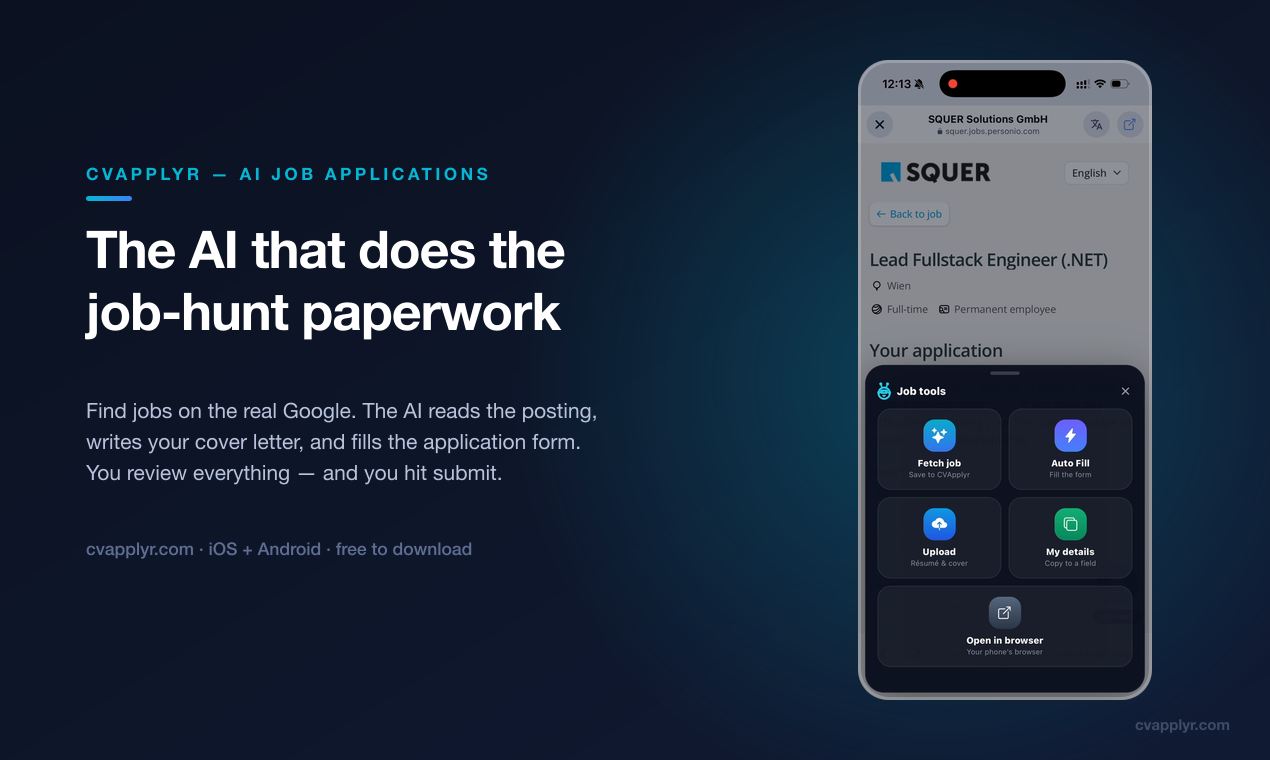
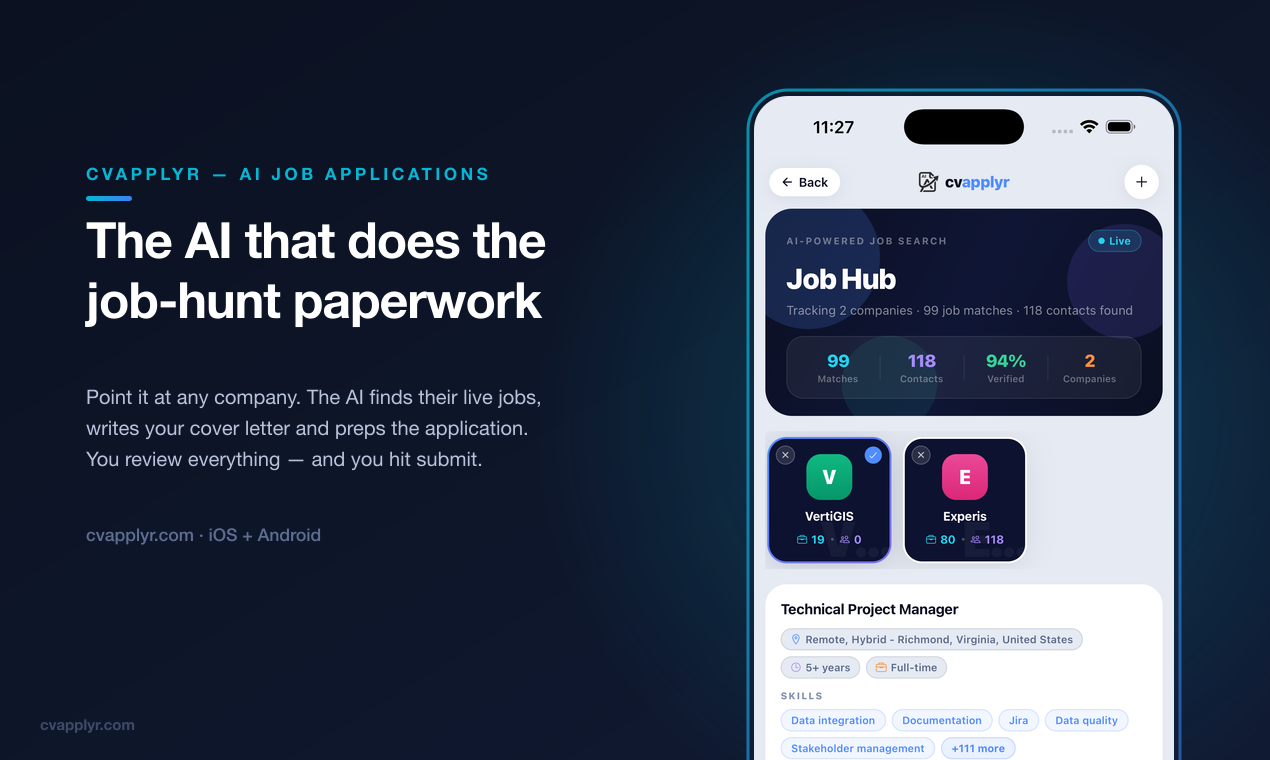
PH gallery rebuilt from the uploaded store screenshots
The video-frame gallery was rejected — compression and mid-animation frames
read badly. The 7 new images use the same June simulator captures behind
marketing/store-screenshots/apple/*, with the store set's pixelation of real
recruiter contacts replicated (sharp gotcha: chained .resize() calls override
each other, so the down/up pixelation needs two pipelines).

diff --git a/tools/build-ph-images.js b/tools/build-ph-images.js
@@ -1,93 +1,106 @@
-// Product Hunt gallery images — 1270x760, built from real app frames + the brand kit.
+// Product Hunt gallery images — 1270x760, built from the SAME simulator screenshots as the
+// uploaded App Store set (marketing/iOS, June 10 captures) + the brand kit.
 //
-// Layout: headline + subline on the left in the brand navy, a real phone frame on the right with
-// rounded corners and a soft glow. Every headline names what the AI actually DOES (reads the
-// posting / fills the form / writes the letter) — the ask was to make the AI concrete, and the
-// guardrails ban vague "revolutionize" filler anyway.
+// v2 used video frames; the user rejected them ("not up to the mark") — video compression and
+// mid-animation frames read badly at gallery size. These are the crisp native captures behind
+// marketing/store-screenshots/apple/*, so the PH gallery matches what's live on the stores.
 //
-// Frames come from the same recordings as the in-app guide, extracted frame-accurately
-// (⚠ -ss AFTER -i; keyframe seeking lands on the wrong screen).
+// ⚠ PRIVACY: two source shots contain REAL recruiter names/emails (Experis contacts). The store
+// set pixelated them; the same blur boxes are replicated here. Never ship these without the blur.
+//
+// Every headline names what the AI actually DOES (reads the posting / writes the letter / preps
+// the application) — captions must match the visible UI, and the guardrails ban vague filler.
 //
 // Usage: node tools/build-ph-images.js
 'use strict';
-const { execFileSync } = require('child_process');
 const fs = require('fs');
 const path = require('path');
 const sharp = require('sharp');
 
-const SRC_DIR = '/Volumes/External/Work/cvApplyr/Videos/July 2026/Edited';
+const RAW_DIR = path.join(__dirname, '..', 'marketing', 'iOS');
 const OUT_DIR = path.join(__dirname, '..', 'Claude', 'cvApplyr', 'ph_gallery');
-const TMP = path.join(require('os').tmpdir(), 'cvf-ph-images');
 
 const W = 1270, H = 760;
-const CROP = { x: 712, y: 0, w: 496, h: 1080 };
-const PHONE_H = 640;
-const PHONE_W = Math.round(PHONE_H * CROP.w / CROP.h);   // ≈294
+const SRC_W = 1320, SRC_H = 2868;
+const PHONE_W = 420;                                    // phone bleeds off the bottom edge
+const PHONE_X = W - PHONE_W - 96;
+const PHONE_Y = 96;
+const PHONE_R = 34;
 
-const V = {
-  profile: 'Profile Update.mov',
-  resume: 'Resume Builder.mov',
-  fetch: 'Fetch Job and Generate Cover Letter.mov',
-  apply: 'Apply Job with Auto Fill.mov',
+// sorted() order matches marketing/store-screenshots/make_store_shots.py IOS[] indices
+const RAW = fs.readdirSync(RAW_DIR).filter((f) => f.endsWith('.png')).sort()
+  .map((f) => path.join(RAW_DIR, f));
+
+// blur boxes in full-res source coords [x0, y0, x1, y1] — same as the uploaded store set
+const BLURS = {
+  5: [[85, 1195, 1000, 1455]],  // apply screen: hiring-contact block (taller than the store box — it clipped the name's top)
+  6: [[200, 850, 950, 935]],    // email compose: To: address
 };
 
-// kicker = small cyan eyebrow; head lines are drawn as given (manual wrapping = no surprises).
+// kicker = cyan eyebrow; head lines drawn as given (manual wrapping = no surprises)
 const IMAGES = [
   {
-    id: '01_hero', v: 'apply', t: 14.4,
+    id: '01_hero', src: 11,
     kicker: 'CVAPPLYR — AI JOB APPLICATIONS',
     head: ['The AI that does the', 'job-hunt paperwork'],
-    sub: ['Find jobs on the real Google. The AI reads the posting,', 'writes your cover letter, and fills the application form.', 'You review everything — and you hit submit.'],
-    foot: 'cvapplyr.com  ·  iOS + Android  ·  free to download',
+    sub: ['Point it at any company. The AI finds their live jobs,', 'writes your cover letter and preps the application.', 'You review everything — and you hit submit.'],
+    foot: 'cvapplyr.com  ·  iOS + Android',
   },
   {
-    id: '02_google', v: 'fetch', t: 4.6,
-    kicker: 'SEARCH',
-    head: ['The real Google,', 'inside the app'],
-    sub: ['No scraped listings, no stale board. Open any result —', 'the AI reads whatever job page you land on', 'and saves it with full details in one tap.'],
-    foot: 'Works on any job site — even ones we’ve never seen',
+    id: '02_livejobs', src: 3,
+    kicker: 'LIVE JOBS',
+    head: ['Real roles, from the', 'employer’s own site'],
+    sub: ['No stale board copies. The AI reads each company’s', 'careers page and pulls the live openings — title,', 'location, skills, and salary when listed.'],
+    foot: 'Straight from the source, not a scraped feed',
   },
   {
-    id: '03_autofill', v: 'apply', t: 15.7,
-    kicker: 'AUTO FILL',
-    head: ['AI fills the form.', 'You stay in charge.'],
-    sub: ['It completes the company’s own application and lists', 'what still needs you. Visa, salary and personal questions', 'are always yours — nothing is submitted without you.'],
-    foot: 'Works on Greenhouse, Workday, Personio and more',
+    id: '03_apply', src: 5,
+    kicker: 'APPLY',
+    head: ['Apply on the portal', '— or straight by email'],
+    sub: ['The AI writes the letter and preps your documents', 'for the company’s own application. Visa, salary and', 'personal questions stay yours — nothing sends without you.'],
+    foot: 'You review every application before it goes out',
   },
   {
-    id: '04_coverletter', v: 'fetch', t: 16.6,
+    id: '04_coverletter', src: 10,
     kicker: 'COVER LETTERS',
     head: ['Written from the', 'real posting'],
-    sub: ['The AI reads the actual job description and writes for it —', 'not a template. German, UK or US format, one tap.', 'Preview free, download as PDF or Word.'],
+    sub: ['The AI reads the actual job description and writes', 'for it — not a template. Pick the format the country', 'expects. Preview free, download as PDF or Word.'],
     foot: 'Country-correct formats, ready to attach',
   },
   {
-    id: '05_resume', v: 'resume', t: 8.5,
-    kicker: 'RÉSUMÉ BUILDER',
-    head: ['Paste your messy story.', 'Get a clean résumé.'],
-    sub: ['Old résumé text, a LinkedIn bio, rough notes — the AI', 'structures it into an ATS-friendly résumé in your', 'country’s format, with every section editable.'],
-    foot: 'German Lebenslauf-style, UK CV, US resume',
+    id: '05_email', src: 6,
+    kicker: 'EMAIL APPLY',
+    head: ['Email the recruiter,', 'documents attached'],
+    sub: ['The app finds recruiter and HR contacts — with verified', 'emails where available — and drafts the email with your', 'résumé and tailored letter already attached.'],
+    foot: 'You press send — always',
   },
   {
-    id: '06_applied', v: 'apply', t: 18.4,
-    kicker: 'TRACKING',
-    head: ['Submitted — and', 'tracked automatically'],
-    sub: ['The app detects the successful submit and marks the job', 'Applied on your dashboard. Saved jobs, match scores', 'and every letter you’ve written, in one place.'],
-    foot: 'free to download, credit packs for AI actions',
+    id: '06_resume', src: 9,
+    kicker: 'RÉSUMÉ BUILDER',
+    head: ['Paste your messy story.', 'Get a clean résumé.'],
+    sub: ['Old résumé text, a LinkedIn bio, rough notes — the AI', 'structures it into an ATS-friendly résumé, with every', 'section editable before you export.'],
+    foot: 'Your words in, a hiring-ready document out',
+  },
+  {
+    id: '07_formats', src: 8,
+    kicker: 'COUNTRY FORMATS',
+    head: ['One profile.', 'Every country’s format.'],
+    sub: ['Swipe to compare designs and switch region any time —', 'the same profile exports in the format local', 'recruiters expect. Previews are free.'],
+    foot: 'Free to download, credit packs for AI actions',
   },
 ];
 
-const sh = (cmd, args) => execFileSync(cmd, args, { stdio: ['ignore', 'pipe', 'pipe'] });
 const esc = (s) => String(s).replace(/&/g, '&amp;').replace(/</g, '&lt;').replace(/>/g, '&gt;');
 
 function backdropSvg(img) {
-  const headY = 268;
+  const headY = 258;
   const heads = img.head.map((l, i) =>
-    `<text x="86" y="${headY + i * 62}" font-family="Helvetica Neue, Helvetica, Arial, sans-serif" font-size="52" font-weight="800" letter-spacing="-1" fill="#FFFFFF">${esc(l)}</text>`).join('');
-  const subY = headY + img.head.length * 62 + 26;
+    `<text x="86" y="${headY + i * 60}" font-family="Helvetica Neue, Helvetica, Arial, sans-serif" font-size="50" font-weight="800" letter-spacing="-1" fill="#FFFFFF">${esc(l)}</text>`).join('');
+  const subY = headY + img.head.length * 60 + 26;
   const subs = img.sub.map((l, i) =>
-    `<text x="86" y="${subY + i * 31}" font-family="Helvetica Neue, Helvetica, Arial, sans-serif" font-size="21" fill="#B9C4DC">${esc(l)}</text>`).join('');
+    `<text x="86" y="${subY + i * 31}" font-family="Helvetica Neue, Helvetica, Arial, sans-serif" font-size="20" fill="#B9C4DC">${esc(l)}</text>`).join('');
   const footY = subY + img.sub.length * 31 + 44;
+  const rx = PHONE_X - 6, ry = PHONE_Y - 6;
   return Buffer.from(`<svg width="${W}" height="${H}" xmlns="http://www.w3.org/2000/svg">
   <defs>
     <linearGradient id="bg" x1="0" y1="0" x2="1" y2="1">
@@ -97,57 +110,79 @@ function backdropSvg(img) {
       <stop offset="0" stop-color="#06B6D4"/><stop offset="1" stop-color="#3B82F6"/>
     </linearGradient>
     <radialGradient id="glow" cx="0.5" cy="0.5" r="0.5">
-      <stop offset="0" stop-color="#06B6D4" stop-opacity="0.28"/><stop offset="1" stop-color="#06B6D4" stop-opacity="0"/>
+      <stop offset="0" stop-color="#06B6D4" stop-opacity="0.26"/><stop offset="1" stop-color="#06B6D4" stop-opacity="0"/>
     </radialGradient>
+    <linearGradient id="ring" x1="0" y1="0" x2="1" y2="1">
+      <stop offset="0" stop-color="#06B6D4" stop-opacity="0.75"/><stop offset="1" stop-color="#3B82F6" stop-opacity="0.55"/>
+    </linearGradient>
   </defs>
   <rect width="${W}" height="${H}" fill="url(#bg)"/>
-  <circle cx="${W - 330}" cy="${H / 2}" r="430" fill="url(#glow)"/>
+  <circle cx="${PHONE_X + PHONE_W / 2}" cy="${H / 2 + 40}" r="430" fill="url(#glow)"/>
   <rect x="86" y="196" width="46" height="5" rx="2.5" fill="url(#accent)"/>
   <text x="86" y="180" font-family="Helvetica Neue, Helvetica, Arial, sans-serif" font-size="17" font-weight="700" letter-spacing="3.5" fill="#06B6D4">${esc(img.kicker)}</text>
   ${heads}
   ${subs}
   <text x="86" y="${Math.min(footY, H - 56)}" font-family="Helvetica Neue, Helvetica, Arial, sans-serif" font-size="17.5" font-weight="600" fill="#5F6E92">${esc(img.foot)}</text>
-  <text x="${W - 40}" y="${H - 30}" text-anchor="end" font-family="Helvetica Neue, Helvetica, Arial, sans-serif" font-size="15" font-weight="700" fill="#3D4A68">cvapplyr.com</text>
+  <text x="40" y="${H - 30}" font-family="Helvetica Neue, Helvetica, Arial, sans-serif" font-size="15" font-weight="700" fill="#3D4A68">cvapplyr.com</text>
+  <rect x="${rx}" y="${ry}" width="${PHONE_W + 12}" height="${H - ry + 60}" rx="${PHONE_R + 6}" fill="none" stroke="url(#ring)" stroke-width="3"/>
 </svg>`);
 }
 
+// rounded-top mask: rect extends past the crop bottom so only the top corners round
 const phoneMask = (w, h, r) => Buffer.from(
-  `<svg width="${w}" height="${h}" xmlns="http://www.w3.org/2000/svg"><rect width="${w}" height="${h}" rx="${r}" ry="${r}" fill="#fff"/></svg>`);
-const phoneBorder = (w, h, r) => Buffer.from(
-  `<svg width="${w}" height="${h}" xmlns="http://www.w3.org/2000/svg"><rect x="1.5" y="1.5" width="${w - 3}" height="${h - 3}" rx="${r}" ry="${r}" fill="none" stroke="rgba(255,255,255,0.22)" stroke-width="3"/></svg>`);
+  `<svg width="${w}" height="${h}" xmlns="http://www.w3.org/2000/svg"><rect width="${w}" height="${h + r}" rx="${r}" ry="${r}" fill="#fff"/></svg>`);
+
+async function pixelate(srcPath, boxes) {
+  const buf = fs.readFileSync(srcPath);
+  const overlays = [];
+  for (const [x0, y0, x1, y1] of boxes) {
+    const w = x1 - x0, h = y1 - y0;
+    // ⚠ two resizes must be separate pipelines — chained .resize() calls override, not compose
+    const small = await sharp(buf)
+      .extract({ left: x0, top: y0, width: w, height: h })
+      .resize(Math.max(1, Math.round(w / 24)), Math.max(1, Math.round(h / 24)), { fit: 'fill' })
+      .png().toBuffer();
+    const region = await sharp(small)
+      .resize(w, h, { fit: 'fill', kernel: 'nearest' })
+      .png().toBuffer();
+    overlays.push({ input: region, left: x0, top: y0 });
+  }
+  return sharp(buf).composite(overlays).png().toBuffer();
+}
 
 (async () => {
-  fs.rmSync(TMP, { recursive: true, force: true });
-  fs.mkdirSync(TMP, { recursive: true });
   fs.mkdirSync(OUT_DIR, { recursive: true });
+  // clear v2 leftovers so the folder is exactly this set
+  for (const f of fs.readdirSync(OUT_DIR)) fs.unlinkSync(path.join(OUT_DIR, f));
   let total = 0;
 
   for (const img of IMAGES) {
-    const src = path.join(SRC_DIR, V[img.v]);
-    if (!fs.existsSync(src)) throw new Error('missing source: ' + src);
-    const framePng = path.join(TMP, img.id + '.png');
-    sh('ffmpeg', ['-v', 'error', '-i', src, '-ss', String(img.t),
-      '-vf', `crop=${CROP.w}:${CROP.h}:${CROP.x}:${CROP.y}`, '-frames:v', '1', framePng, '-y']);
+    const srcPath = RAW[img.src];
+    if (!srcPath) throw new Error('missing raw screenshot index ' + img.src);
+    const meta = await sharp(srcPath).metadata();
+    if (meta.width !== SRC_W || meta.height !== SRC_H) {
+      throw new Error(`${path.basename(srcPath)} is ${meta.width}x${meta.height}, expected ${SRC_W}x${SRC_H}`);
+    }
 
-    const R = 30;
-    const phone = await sharp(framePng)
-      .resize(PHONE_W, PHONE_H, { fit: 'fill', kernel: 'lanczos3' })
-      .composite([{ input: phoneMask(PHONE_W, PHONE_H, R), blend: 'dest-in' }])
-      .png().toBuffer();
-    const phoneWithBorder = await sharp(phone)
-      .composite([{ input: phoneBorder(PHONE_W, PHONE_H, R) }])
+    const srcBuf = BLURS[img.src]
+      ? await pixelate(srcPath, BLURS[img.src])
+      : fs.readFileSync(srcPath);
+
+    const visibleH = H - PHONE_Y;                       // phone bleeds off the bottom
+    const phone = await sharp(srcBuf)
+      .resize(PHONE_W, Math.round(SRC_H * PHONE_W / SRC_W), { kernel: 'lanczos3' })
+      .extract({ left: 0, top: 0, width: PHONE_W, height: visibleH })
+      .composite([{ input: phoneMask(PHONE_W, visibleH, PHONE_R), blend: 'dest-in' }])
       .png().toBuffer();
 
-    const px = W - PHONE_W - 118;
-    const py = Math.round((H - PHONE_H) / 2);
     const out = path.join(OUT_DIR, img.id + '.png');
     await sharp(backdropSvg(img))
-      .composite([{ input: phoneWithBorder, left: px, top: py }])
+      .composite([{ input: phone, left: PHONE_X, top: PHONE_Y }])
       .png({ compressionLevel: 9 }).toFile(out);
 
     const kb = Math.round(fs.statSync(out).size / 1024);
     total += kb;
-    console.log(`${img.id.padEnd(16)} ${W}x${H}  ${kb} KB`);
+    console.log(`${img.id.padEnd(16)} ${W}x${H}  ${kb} KB  (raw #${img.src}${BLURS[img.src] ? ', blurred' : ''})`);
   }
   console.log(`\n${IMAGES.length} gallery images, ${Math.round(total / 1024 * 10) / 10} MB → ${OUT_DIR}`);
 })().catch((e) => { console.error(e.message); process.exit(1); });

diff --git a/Claude/cvApplyr/ProductHunt_Launch_Kit_v2.md b/Claude/cvApplyr/ProductHunt_Launch_Kit_v2.md
@@ -99,16 +99,17 @@ I'd especially love to hear from people applying into a country that isn't their
 
 **Deliberately not in scope, and staying that way:** it never auto-submits anything; it never mass-applies or bulk-sends; it never answers visa, work-authorization, salary, or demographic questions (those go to the "Still needs you" list); it never sends from any account other than your own; it runs no job board of its own; and it makes no promises about jobs, interviews, reply rates, or email discovery. The restraint is the feature.
 
-## 8. Gallery image captions (6, in upload order)
+## 8. Gallery image captions (7, in upload order)
 
-1. **Hero:** Stop applying into the void. Go straight to the company that can hire you. Filled by AI, submitted by you.
-2. **Google search:** The search tab is the real Google. Your session, any careers page, any country.
-3. **Auto Fill + "Still needs you":** Auto Fill completes the employer's own form and attaches your documents. Visa and salary questions wait for you.
-4. **Cover letter formats:** Written from the posting the app just read, in the format the country expects. Preview free.
-5. **Resume builder:** Paste your messy career story. Get a clean, ATS-friendly resume: German Lebenslauf-style with photo, UK CV, US resume.
-6. **Tracking:** Submitted — and tracked automatically. The app detects the real form submit and marks the job Applied on your dashboard.
+1. **Hero (Job Hub):** The AI that does the job-hunt paperwork. Point it at any company — it finds their live jobs, writes your cover letter, and preps the application. You review everything, and you hit submit.
+2. **Live jobs:** Real roles from the employer's own site — title, location, skills, and salary when listed. Not a scraped feed.
+3. **Apply:** Apply on the company's own portal or straight by email. Visa, salary, and personal questions stay yours — nothing sends without you.
+4. **Cover letters:** Written from the real posting the app just read — not a template. Country-correct formats, preview free, PDF or Word.
+5. **Email apply:** Recruiter and HR contacts — with verified emails where available — and a drafted email with your documents already attached. You press send, always.
+6. **Resume builder:** Paste your messy career story. The AI structures it into a clean, ATS-friendly résumé, every section editable.
+7. **Country formats:** One profile, exported in the format local recruiters expect. Swipe to compare designs; previews are free.
 
-All six are built from the July 2026 feature recordings (files in Claude/cvApplyr/ph_gallery/, 1270×760). ⚠ A couple of screens predate the late-July search-bar rework — if you re-record the clips, re-run tools/build-ph-images.js to refresh them. No dashboard or reply-rate framing from the old kit.
+All seven (files in Claude/cvApplyr/ph_gallery/, 1270×760) are built from the SAME June simulator captures as the live App Store screenshots — crisp native shots, with the real recruiter contact details pixelated exactly as in the store set. Rebuild any time with `node tools/build-ph-images.js`.
 
 ## 9. Tags
 
